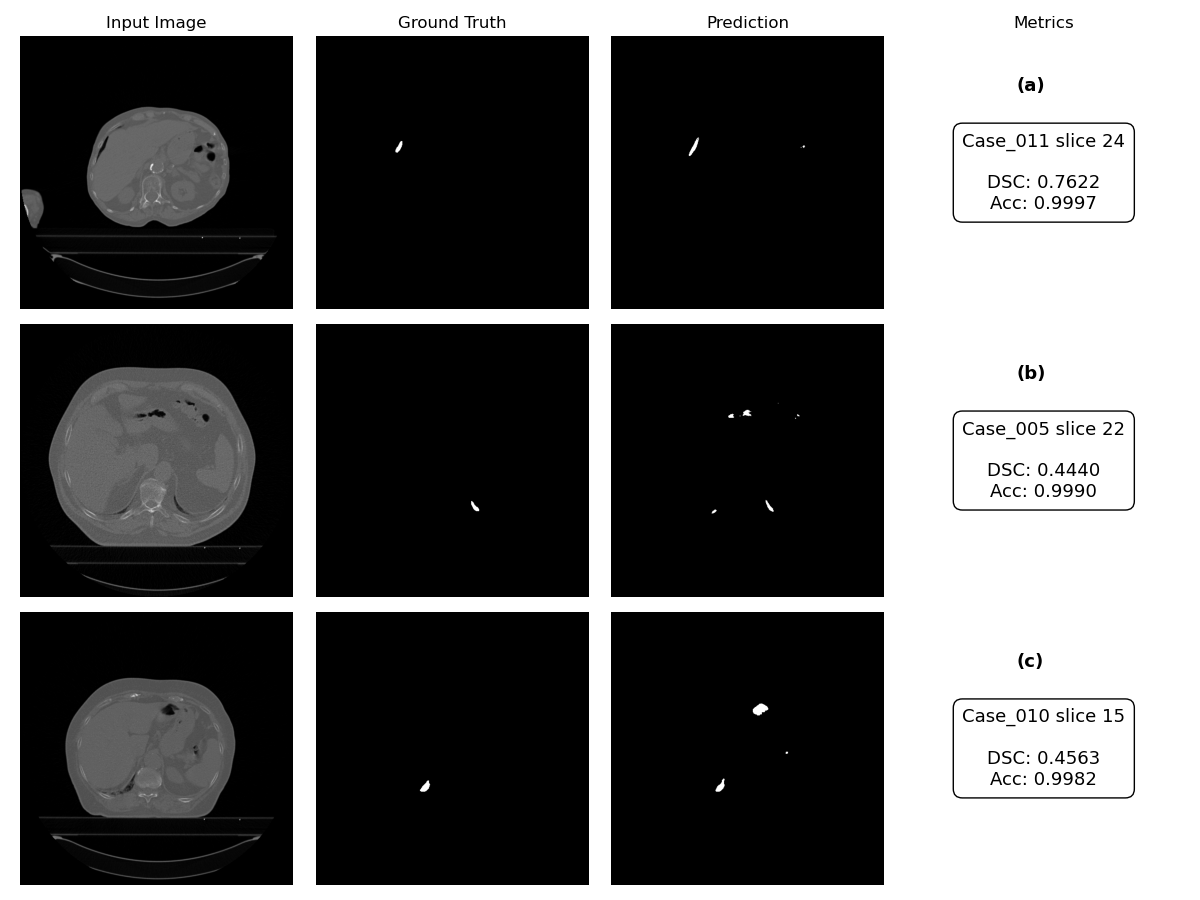
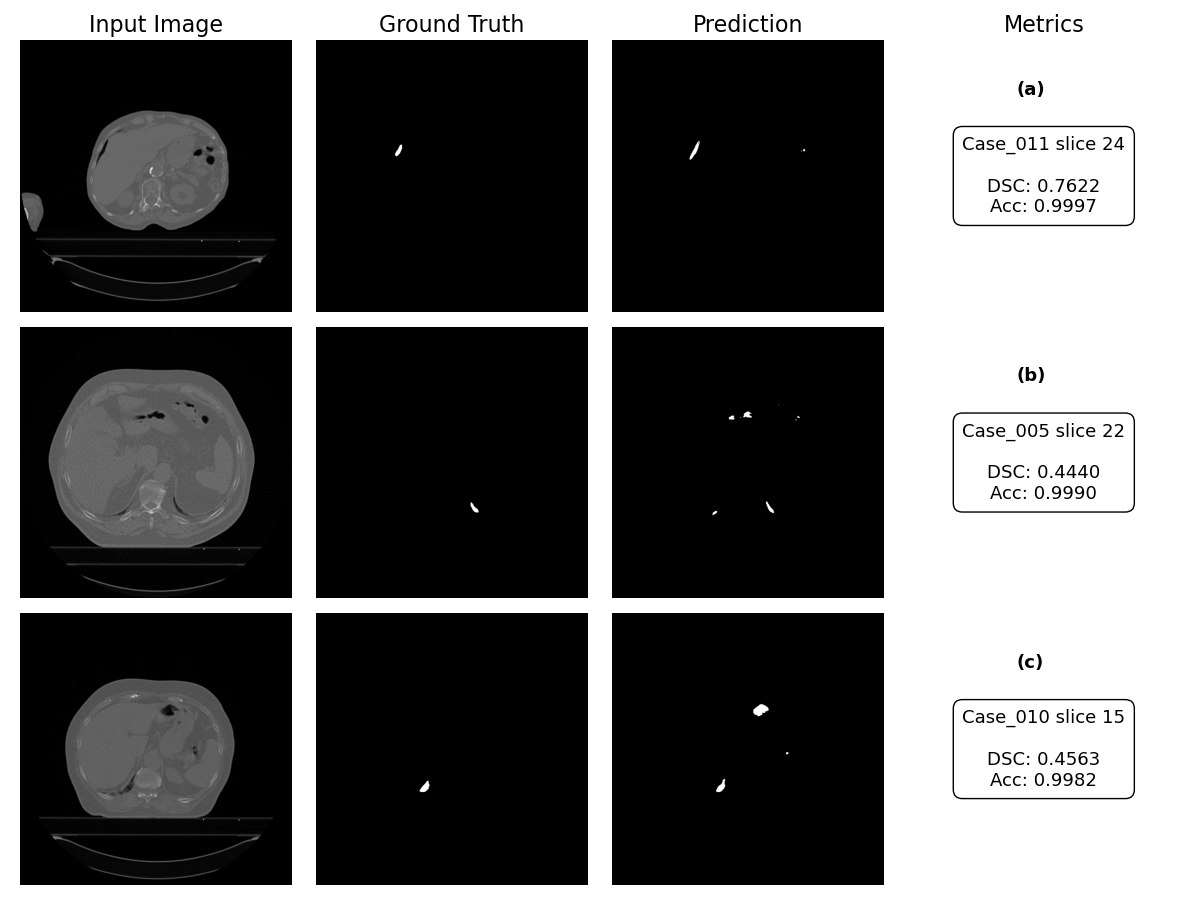
Minor Changes

diff --git a/scripts/make_plots.py b/scripts/make_plots.py
@@ -17,7 +17,7 @@ Usage: Need to specify the following arguments:
 - `--output_dir`: The directory where the visualisations will be saved
 
 Example:
-`python scripts/make_plots.py --dataroot ./Dataset --predictions_dir ./Predictions --metric_logger ./Models/metric_logger.pkl --output_dir ./plots`
+`python scripts/make_plots.py --dataroot ./Dataset --predictions_dir ./Predictions --metric_logger ./Models/metric_logger_wdk24.pkl --output_dir ./plots`
 """
 
 import os
@@ -128,7 +128,8 @@ print(f"Histograms saved to {save_path}")
 
 fig, ax = plt.subplots(1, 1, figsize=(10, 6))
 sns.scatterplot(x="DSC", y="Accuracy", hue="Mask Size", data=df[test_filter], palette="coolwarm", ax=ax, marker="o", s=70)
-ax.set_title("DSC vs Accuracy")
+ax.set_xlabel("Dice Similarity Coefficient", fontsize=16)
+ax.set_ylabel("Accuracy", fontsize=16)
 
 save_path = join(args.output_dir, "scatterplot.png")
 fig.savefig(save_path)
@@ -189,11 +190,11 @@ AUC = auc(recall, precision)
 fig, ax = plt.subplots()
 ax.step(recall, precision, color="b", alpha=0.2, where="post")
 ax.fill_between(recall, precision, step="post", alpha=0.2, color="b")
-ax.set_xlabel("Recall")
-ax.set_ylabel("Precision")
+ax.set_xlabel("Recall", fontsize=16)
+ax.set_ylabel("Precision", fontsize=16)
 ax.set_ylim([0.0, 1.001])
 ax.set_xlim([0.0, 1.001])
-ax.set_title(f"AUC={AUC}")
+ax.set_title(f"AUC={AUC:.5f}")
 
 save_path = join(args.output_dir, "PR-curve.png")
 fig.savefig(save_path)

diff --git a/scripts/stats_and_visualisation.py b/scripts/stats_and_visualisation.py
@@ -139,8 +139,8 @@ fig.savefig(os.path.join(args.output_dir, "worst-accuracy.png"))
 
 # perfect, high and low accuracy categories
 perf_acc = test_no_mask["Accuracy"] == 1
-high_acc = (test_no_mask["Accuracy"] >= 0.9999) & (test_no_mask["Accuracy"] < 1)
-low_acc = test_no_mask["Accuracy"] <= 0.9999
+high_acc = (test_no_mask["Accuracy"] >= 0.999) & (test_no_mask["Accuracy"] < 1)
+low_acc = test_no_mask["Accuracy"] <= 0.999
 
 print(f"Proportion of test-set empty-masks with perfect accuracy: {perf_acc.mean():.5f}")
 print(f"Proportion of test-set empty-masks with accuracy in (0.999, 1): {high_acc.mean():.5f}")
@@ -156,8 +156,8 @@ no_mask = pd.concat([perf, mid, worst])
 fig = plot_rows(no_mask)
 fig.savefig(os.path.join(args.output_dir, "no-mask.png"))
 
-# proportion of 'good' predictions in the test set
+# proportion of 'excellent' predictions in the test set
 high_dsc = df[test_filter]["DSC"] > 0.975
 high_acc_no_mask = (df[test_filter]["Mask Size"] == 0) & (df[test_filter]["Accuracy"] > 0.999)
-good = df[test_filter][high_dsc | high_acc_no_mask]
-print(f"\n\nProportion of test set with DSC > 0.975 or empty masks & accuracy > 0.999: {len(good) / len(df[test_filter])}")
+excellent = df[test_filter][high_dsc | high_acc_no_mask]
+print(f"\n\nProportion of test set with DSC > 0.975 or empty masks & accuracy > 0.999: {len(excellent) / len(df[test_filter])}")

diff --git a/src/analysis/visualisation.py b/src/analysis/visualisation.py
@@ -42,10 +42,10 @@ def plot_rows(df):
 
         # Set titles just for the first row
         if i == 0:
-            ax[i, 0].set_title("Input Image")
-            ax[i, 1].set_title("Ground Truth")
-            ax[i, 2].set_title("Prediction")
-            ax[i, 3].set_title("Metrics")
+            ax[i, 0].set_title("Input Image", fontsize=16)
+            ax[i, 1].set_title("Ground Truth", fontsize=16)
+            ax[i, 2].set_title("Prediction", fontsize=16)
+            ax[i, 3].set_title("Metrics", fontsize=16)
 
         # Plot the image, mask and prediction
         ax[i, 0].imshow(image, cmap="gray")

diff --git a/README.md b/README.md
@@ -1,6 +1,6 @@
 # Small U-Net for Lung Segmentation
 
-# Description
+## Description
 
 This project trains a small version of U-Net for lung segmentation on 12 cases from the Lung CT Segmentation Challenge (2017). The report for the study can be found in `report/`. All results in the report can be reproduced using the scripts in `scripts`.
 
@@ -23,7 +23,7 @@ Project Structure:
 - `LICENSE` - MIT license.
 - `train_test_split.json` - File containing the train/test split used in the project
 
-# Usage / Re-production
+## Usage / Re-production
 
 To re-create the environment used for the project, you can either use conda or docker. I HIGHLY recommend using conda and NOT docker if possible, since the docker container will not naturally have access to the `mps` or `cuda` device. Running the `train.py` and `predict.py` scripts with a CPU will take far longer.
 
@@ -100,7 +100,7 @@ $ python scripts/make_plots.py --dataroot ./Dataset --predictions_dir ./Predicti
 # --output_dir: The directory where the plots will be saved
 ```
 
-# Timing
+## Timing
 
 Times to run each script:
 - `dataset_summary.py` - 1 minute
@@ -124,3 +124,7 @@ GPU (`mps`):
 - Bus: Built-In
 - Total Number of Cores: 14
 - Metal Support: Metal 3
+
+## Architecture
+
+![U-Net Small architecture](./plots/UNet-Small.png)
